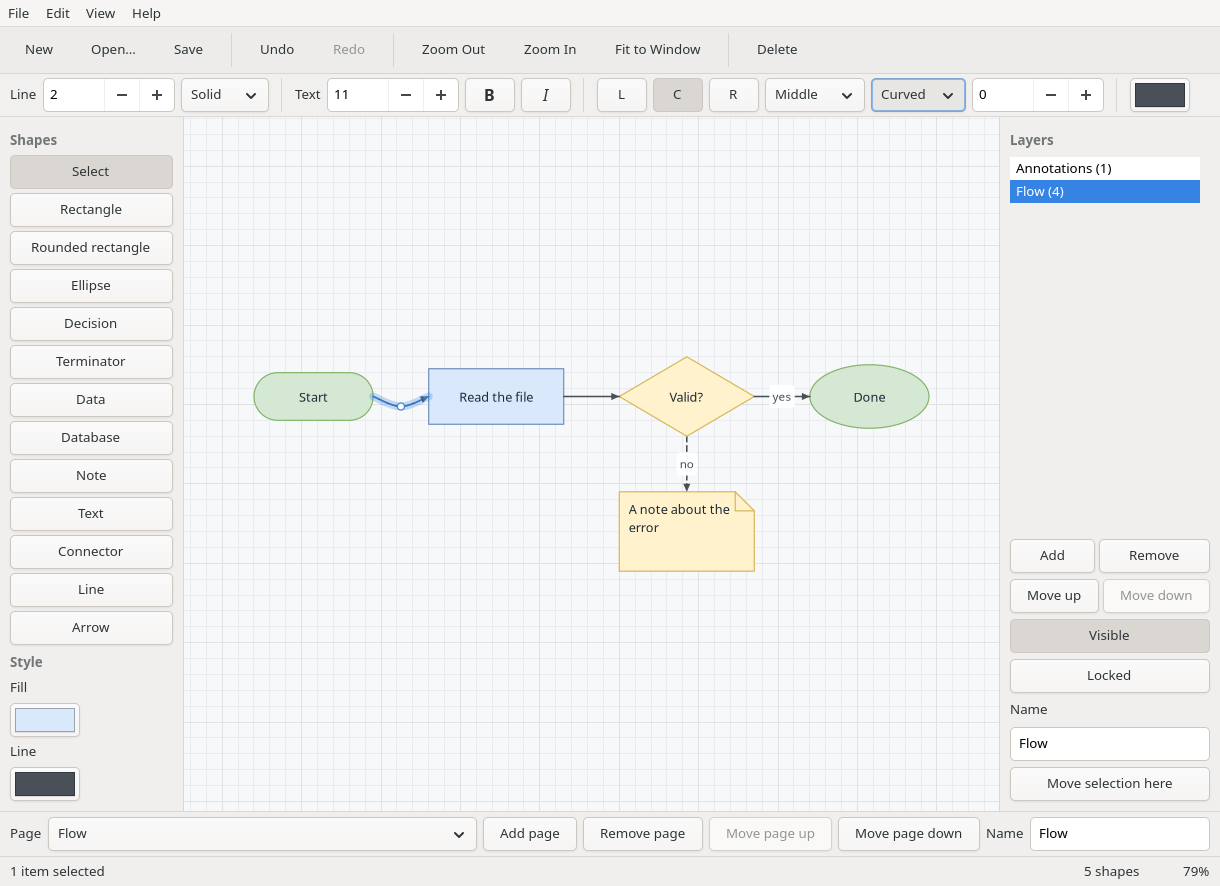
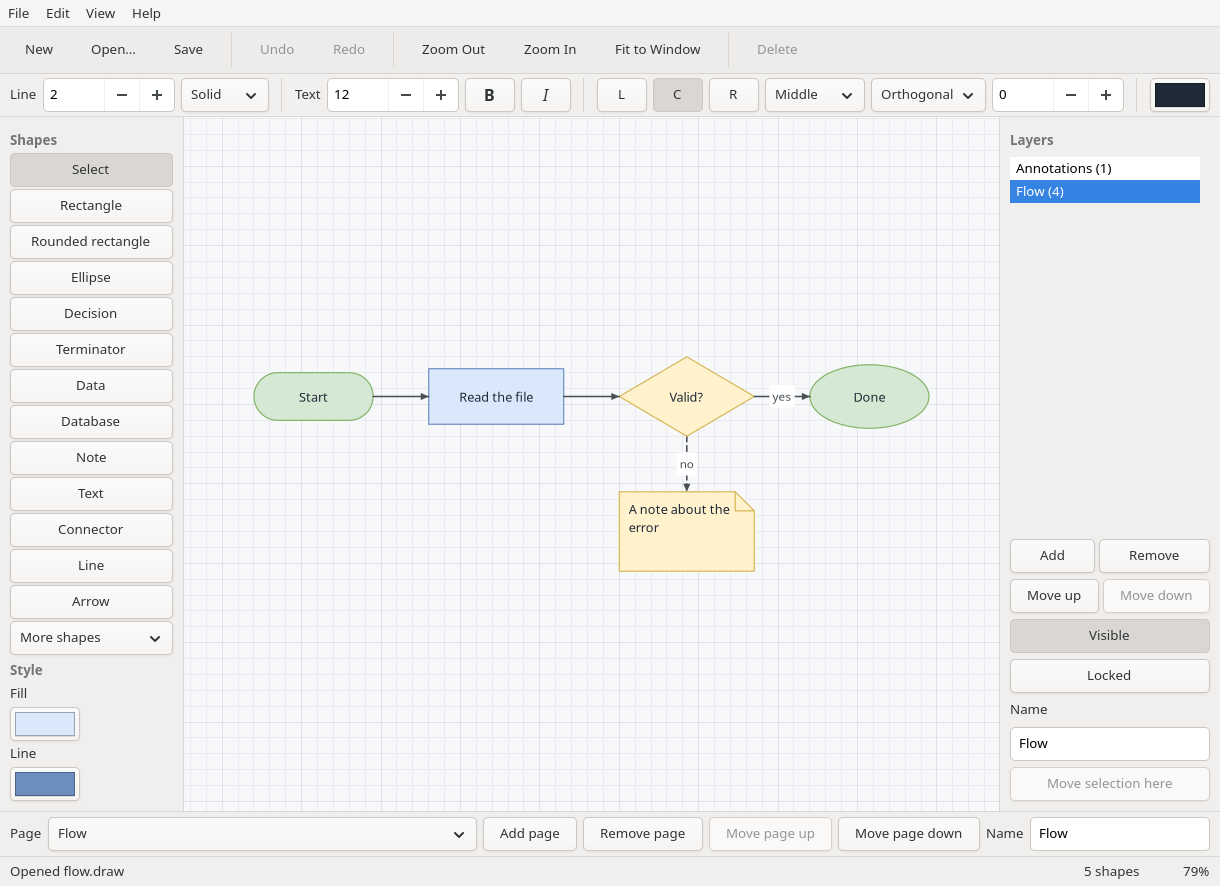
más formas de biblioteca
La paleta suma una lista Más formas con triángulo, hexágono, documento, entrada manual, proceso predefinido, almacenamiento interno, demora, referencias en y fuera de página, límite de bucle y operación manual. Cada una tiene su trazado, tamaño por defecto y traducción; entran en el .draw y en la exportación como cualquier otra.

diff --git a/MainForm.js b/MainForm.js
@@ -29,6 +29,10 @@ const PASTE_OFFSET = 20;
 const DEFAULT_FILL_COLOR   = "#dae8fc";
 const DEFAULT_STROKE_COLOR = "#6c8ebf";
 
+const MORE_KINDS = ["triangle", "hexagon", "document", "manualinput",
+                    "predefined", "storage", "delay", "onpage", "offpage",
+                    "looplimit", "manualop"];
+
 function clamp(value, low, high) {
     return Math.max(low, Math.min(high, value));
 }
@@ -143,6 +147,22 @@ export class MainForm extends Form {
         this.CmbRoute.Add(Locale.Text("Orthogonal"), "orthogonal");
         this.CmbRoute.Add(Locale.Text("Straight"), "straight");
         this.CmbRoute.Add(Locale.Text("Curved"), "curved");
+
+        this.syncingTools = true;
+        this.CmbMoreShapes.Add(Locale.Text("More shapes"), "");
+        this.CmbMoreShapes.Add(Locale.Text("Triangle"), "triangle");
+        this.CmbMoreShapes.Add(Locale.Text("Hexagon"), "hexagon");
+        this.CmbMoreShapes.Add(Locale.Text("Document"), "document");
+        this.CmbMoreShapes.Add(Locale.Text("Manual input"), "manualinput");
+        this.CmbMoreShapes.Add(Locale.Text("Predefined process"), "predefined");
+        this.CmbMoreShapes.Add(Locale.Text("Internal storage"), "storage");
+        this.CmbMoreShapes.Add(Locale.Text("Delay"), "delay");
+        this.CmbMoreShapes.Add(Locale.Text("On-page reference"), "onpage");
+        this.CmbMoreShapes.Add(Locale.Text("Off-page reference"), "offpage");
+        this.CmbMoreShapes.Add(Locale.Text("Loop limit"), "looplimit");
+        this.CmbMoreShapes.Add(Locale.Text("Manual operation"), "manualop");
+        this.CmbMoreShapes.Index = 0;
+        this.syncingTools = false;
 
         this.SpnStrokeWidth.Value = this.defaultStrokeWidth;
         this.CmbDash.Index = 0;
@@ -310,6 +330,10 @@ export class MainForm extends Form {
          * to this same choice; the guard is what stops that being a loop. */
         this.syncingTools = true;
         for (const b of this.toolButtons()) b.Active = (b === button);
+        if (MORE_KINDS.indexOf(tool) >= 0 && button === null)
+            this.CmbMoreShapes.Key = tool;
+        else
+            this.CmbMoreShapes.Index = 0;
         this.syncingTools = false;
         this.Canvas.Cursor = tool === "select" ? "Arrow" : "Crosshair";
         this.statusText = this.toolHint(tool);
@@ -342,6 +366,13 @@ export class MainForm extends Form {
     BtnToolConnect_Click()    { this.toolButtonClicked("connect", this.BtnToolConnect); }
     BtnToolLine_Click()       { this.toolButtonClicked("line", this.BtnToolLine); }
     BtnToolArrow_Click()      { this.toolButtonClicked("arrow", this.BtnToolArrow); }
+
+    CmbMoreShapes_Select() {
+        if (this.syncingTools) return;
+        const kind = this.CmbMoreShapes.Key;
+        if (!kind) return;
+        this.chooseTool(kind, null);
+    }
 
     toolHint(tool) {
         switch (tool) {
@@ -694,6 +725,17 @@ export class MainForm extends Form {
         case "cylinder":   return { w: 130, h: 100 };
         case "note":       return { w: 150, h: 90 };
         case "text":       return { w: 180, h: 44 };
+        case "triangle":   return { w: 140, h: 110 };
+        case "hexagon":    return { w: 150, h: 80 };
+        case "document":   return { w: 150, h: 90 };
+        case "manualinput": return { w: 150, h: 80 };
+        case "predefined": return { w: 160, h: 80 };
+        case "storage":    return { w: 150, h: 80 };
+        case "delay":      return { w: 140, h: 70 };
+        case "onpage":     return { w: 80, h: 80 };
+        case "offpage":    return { w: 140, h: 90 };
+        case "looplimit":  return { w: 150, h: 90 };
+        case "manualop":   return { w: 150, h: 80 };
         default:           return { w: 150, h: 80 };
         }
     }

diff --git a/Render.js b/Render.js
@@ -105,6 +105,54 @@ function shapePath(p, s) {
         break;
     case "cylinder":   cylinderPath(p, s); break;
     case "note":       notePath(p, s); break;
+    case "triangle":
+        p.Polygon([s.x + s.w / 2, s.y, s.x + s.w, s.y + s.h, s.x, s.y + s.h]);
+        break;
+    case "hexagon":
+        p.Polygon([s.x + s.w * 0.22, s.y, s.x + s.w * 0.78, s.y,
+                   s.x + s.w, s.y + s.h / 2, s.x + s.w * 0.78, s.y + s.h,
+                   s.x + s.w * 0.22, s.y + s.h, s.x, s.y + s.h / 2]);
+        break;
+    case "document": {
+        const wave = Math.min(18, s.h * 0.14);
+        p.MoveTo(s.x, s.y);
+        p.LineTo(s.x + s.w, s.y);
+        p.LineTo(s.x + s.w, s.y + s.h - wave);
+        p.CurveTo(s.x + s.w * 0.72, s.y + s.h - wave * 2.2,
+                  s.x + s.w * 0.28, s.y + s.h + wave * 0.2,
+                  s.x, s.y + s.h - wave);
+        p.ClosePath();
+        break;
+    }
+    case "manualinput":
+        p.Polygon([s.x, s.y + s.h * 0.22, s.x + s.w, s.y,
+                   s.x + s.w, s.y + s.h, s.x, s.y + s.h]);
+        break;
+    case "delay": {
+        const radius = s.h / 2;
+        p.MoveTo(s.x, s.y);
+        p.LineTo(s.x + s.w - radius, s.y);
+        p.Arc(s.x + s.w - radius, s.y + radius, radius, -90, 90);
+        p.LineTo(s.x, s.y + s.h);
+        p.ClosePath();
+        break;
+    }
+    case "onpage":     ellipsePath(p, s.x, s.y, s.w, s.h); break;
+    case "offpage":
+        p.Polygon([s.x, s.y, s.x + s.w, s.y, s.x + s.w, s.y + s.h * 0.72,
+                   s.x + s.w / 2, s.y + s.h, s.x, s.y + s.h * 0.72]);
+        break;
+    case "looplimit": {
+        const cut = Math.min(20, s.w * 0.18, s.h * 0.25);
+        p.Polygon([s.x + cut, s.y, s.x + s.w - cut, s.y,
+                   s.x + s.w, s.y + cut, s.x + s.w, s.y + s.h,
+                   s.x, s.y + s.h, s.x, s.y + cut]);
+        break;
+    }
+    case "manualop":
+        p.Polygon([s.x, s.y, s.x + s.w, s.y,
+                   s.x + s.w * 0.8, s.y + s.h, s.x + s.w * 0.2, s.y + s.h]);
+        break;
     default:           p.Rectangle(s.x, s.y, s.w, s.h); break;
     }
 }
@@ -119,7 +167,8 @@ function selectionOutline(p, s) {
 function labelInShape(p, s) {
     if (!s.text) return;
 
-    const wide = s.kind === "ellipse" || s.kind === "diamond";
+    const wide = s.kind === "ellipse" || s.kind === "diamond" ||
+                 s.kind === "onpage";
     const note = s.kind === "note";
     const fold = note ? Math.min(24, s.w * 0.22, s.h * 0.32) : 0;
     const padX = note ? 12 : (wide ? s.w * 0.18 : 10);
@@ -201,6 +250,28 @@ function drawShape(p, s) {
         p.Color = s.stroke || DEFAULT_STROKE;
         p.LineWidth = s.strokeWidth || 1.5;
         p.LineDash = dashPattern(s.dash, false);
+        p.Stroke();
+        p.LineDash = [];
+    } else if (s.kind === "predefined") {
+        const inset = Math.min(16, s.w * 0.12);
+        p.Color = s.stroke || DEFAULT_STROKE;
+        p.LineWidth = s.strokeWidth || 1.5;
+        p.LineDash = dashPattern(s.dash, false);
+        p.MoveTo(s.x + inset, s.y);
+        p.LineTo(s.x + inset, s.y + s.h);
+        p.MoveTo(s.x + s.w - inset, s.y);
+        p.LineTo(s.x + s.w - inset, s.y + s.h);
+        p.Stroke();
+        p.LineDash = [];
+    } else if (s.kind === "storage") {
+        const inset = Math.min(16, s.h * 0.25);
+        p.Color = s.stroke || DEFAULT_STROKE;
+        p.LineWidth = s.strokeWidth || 1.5;
+        p.LineDash = dashPattern(s.dash, false);
+        p.MoveTo(s.x, s.y + inset);
+        p.LineTo(s.x + s.w, s.y + inset);
+        p.MoveTo(s.x + inset, s.y);
+        p.LineTo(s.x + inset, s.y + s.h);
         p.Stroke();
         p.LineDash = [];
     } else if (s.kind === "note") {

diff --git a/tests/selfcheck/TestForm.js b/tests/selfcheck/TestForm.js
@@ -214,6 +214,7 @@ class TestForm extends Form {
         this.groups(fm);
         this.freeLines(fm);
         this.routing(fm);
+        this.moreShapes(fm);
         this.layers(fm);
         this.pages(fm);
 
@@ -997,6 +998,48 @@ class TestForm extends Form {
         this.eq("routing: draw.io bend", imported.diagram.edges[0].waypoints.length, 1);
     }
 
+    moreShapes(fm) {
+        fm.resetDocument();
+        const kinds = ["triangle", "hexagon", "document", "manualinput",
+                       "predefined", "storage", "delay", "onpage", "offpage",
+                       "looplimit", "manualop"];
+        let x = 0, y = 0;
+        for (const kind of kinds) {
+            const shape = fm.doc.addShape(kind, x, y, 150, 80, {
+                text: kind,
+            });
+            this.eq("shapes: " + kind + " is kept", shape.kind, kind);
+            x += 190;
+            if (x > 900) { x = 0; y += 130; }
+        }
+        fm.refreshAll();
+
+        /* All of them paint without a throw. */
+        const png = File.Join(Application.Directory, "shapes.png");
+        fm.exporting = true;
+        fm.Canvas.Save(png, 1100, 700);
+        fm.exporting = false;
+        this.check("shapes: the sheet was drawn", File.Exists(png));
+        File.Delete(png);
+
+        /* The combo selects one and the canvas creates it. */
+        fm.CmbMoreShapes.Key = "triangle";
+        fm.CmbMoreShapes_Select();
+        this.eq("shapes: the combo chose a triangle", fm.tool, "triangle");
+        fm.Canvas_MouseDown(100, 100, 1, false, false);
+        fm.Canvas_MouseUp(100, 100, 1, false, false);
+        const last = fm.doc.shapes[fm.doc.shapes.length - 1];
+        this.eq("shapes: the canvas made a triangle", last.kind, "triangle");
+        this.eq("shapes: the tool went back to select", fm.tool, "select");
+        this.eq("shapes: the combo went back to its title",
+                fm.CmbMoreShapes.Index, 0);
+
+        const round = Diagram.fromJSON(JSON.parse(JSON.stringify(fm.doc.toJSON())));
+        this.eq("shapes: the file keeps a triangle",
+                round.shapes.find((s) => s.kind === "triangle") !== undefined,
+                true);
+    }
+
     confirmDialog() {
         let answer = "";
         let dialog = ConfirmForm.ask("Title", "Message", "Save",
@@ -1050,6 +1093,7 @@ class TestForm extends Form {
             BtnLayerVisible: ["Click"], BtnLayerLocked: ["Click"],
             BtnLayerAssign: ["Click"],
             TxtLayerName: ["Activate", "LostFocus"],
+            CmbMoreShapes: ["Select"],
             CmbPage: ["Select"], BtnPageAdd: ["Click"],
             BtnPageRemove: ["Click"], BtnPageUp: ["Click"],
             BtnPageDown: ["Click"],

diff --git a/Diagram.js b/Diagram.js
@@ -13,7 +13,10 @@
 "use strict";
 
 export const SHAPE_KINDS = ["rect", "round", "ellipse", "diamond",
-                            "terminator", "data", "cylinder", "note", "text"];
+                            "terminator", "data", "cylinder", "note", "text",
+                            "triangle", "hexagon", "document", "manualinput",
+                            "predefined", "storage", "delay", "onpage",
+                            "offpage", "looplimit", "manualop"];
 
 export const DEFAULT_FILL   = "#dae8fc";
 export const DEFAULT_STROKE = "#6c8ebf";

diff --git a/README.md b/README.md
@@ -29,8 +29,11 @@ The window is started with a blank canvas and the shape palette on the left.
 ## What it does
 
 - **Shapes** — rectangle, rounded rectangle, ellipse, decision diamond,
-  terminator, data parallelogram, database cylinder, note and free text. Pick
-  one and click for the default size or drag to size it.
+  terminator, data parallelogram, database cylinder, note and free text in the
+  palette, plus a **More shapes** list: triangle, hexagon, document, manual
+  input, predefined process, internal storage, delay, on-page and off-page
+  references, loop limit and manual operation. Pick one and click for the
+  default size or drag to size it.
 - **Connectors** — the connector tool, dragged from one shape to another,
   produces an orthogonal route that follows both shapes when they move or
   resize. Connectors can be labelled and can be dashed.

diff --git a/AGENTS.md b/AGENTS.md
@@ -71,6 +71,12 @@ BINTANA=/path/to/build/bintana tests/run.sh
   holds every member; resizing does not, because more than one shape is
   selected and handles only appear for one. A paste must remap group ids, or
   the copy joins the original group.
+- **A shape kind is one case in `shapePath`.** There are no per-shape classes:
+  add the name to `SHAPE_KINDS` in `Diagram.js`, a case in `Render.js`
+  (`shapePath`, plus any inner lines in `drawShape`), a default size in
+  `MainForm.defaultSize`, and either a toggle button or an entry in the
+  `CmbMoreShapes` list. The long tail lives in that combo so the palette stays
+  one screen tall.
 - **An edge route is one of three things.** With no waypoints and
   `route === "orthogonal"` it is the automatic right-angled path; otherwise the
   control points are the anchors plus the waypoints, `straight` joins them and
